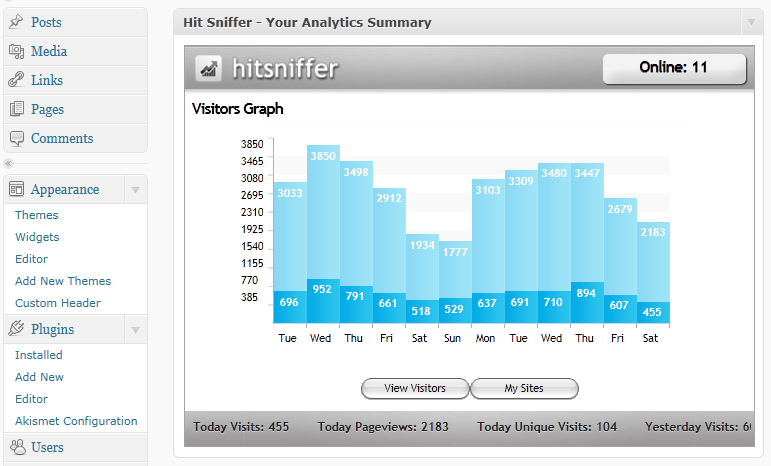
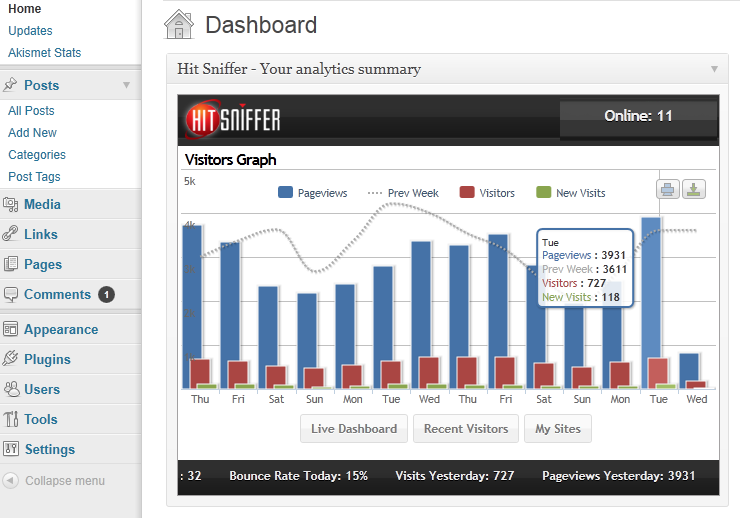
+ New Theme for Dashboard widget + New Screenshot of Dashboard Widget
git-svn-id: https://plugins.svn.wordpress.org/hit-sniffer-blog-stats/trunk@408977 b8457f37-d9ea-0310-8a92-e5e31aec5664

diff --git a/hitsniffer.php b/hitsniffer.php
@@ -4,7 +4,7 @@ Plugin Name: Hit Sniffer Live Blog Analytics
 Plugin URI: http://www.hitsniffer.com/
 Description: Hit Sniffer is a powerful real time website visitor activity tracker. It will monitor your website visitors actions live and in real time.
 Author: hitsniffer.com
-Version: 2.5.2.6
+Version: 2.5.6
 Author URI: http://www.hitsniffer.com/
 */ 
 
@@ -46,7 +46,7 @@ $htssl='';
         $htssl=" - SSL";
       }
   }
-?><!-- HITSNIFFER TRACKING CODE<?php echo $htssl; ?> v2.5.2.3 - DO NOT CHANGE --><?php
+?><!-- HITSNIFFER TRACKING CODE<?php echo $htssl; ?> v2.5.6 - DO NOT CHANGE --><?php
 
 
 
@@ -293,7 +293,7 @@ if (round($option['iga'])==0) $option['iga']=0;
 
 if (round($option['allowchat'])==0) $option['allowchat']=1;
 
-if (round($option['theme'])==0) $option['theme']=2;
+if (round($option['xtheme'])==0) $option['xtheme']=2;
 
 if (round($option['stats'])==0) $option['stats']=2;
 
@@ -328,7 +328,7 @@ $option['wgd']=html_entity_decode($option['wgd']);
 
 $option['allowchat']=html_entity_decode($option['allowchat']);
 
-$option['theme']=html_entity_decode($option['theme']);
+$option['xtheme']=html_entity_decode($option['xtheme']);
 
 $option['stats']=html_entity_decode($option['stats']);
 
@@ -679,13 +679,13 @@ window.location.href="<?php echo str_replace('&hitmagic=do','',$_SERVER['REQUEST
 
 <p><input type="radio" value="1" name="allowchat"  style="width: 22px; height: 20px;" <?php if ($option['allowchat']!=2) echo "checked"; ?> checked>Yes&nbsp;
 
-<input type="radio" value="2" name="allowchat"  style="width: 22px; height: 20px;" <?php if ($option['allowchat']==2) echo "checked"; ?>>No&nbsp;&nbsp;&nbsp;Enable "chat with your visitors feature" (not available on starter plan)
+<input type="radio" value="2" name="allowchat"  style="width: 22px; height: 20px;" <?php if ($option['allowchat']==2) echo "checked"; ?>>No&nbsp;&nbsp;&nbsp;Enable "chat with your visitors feature"
 
 </p>
 
-<p><input type="radio" value="1" name="theme"  style="width: 22px; height: 20px;" <?php if ($option['theme']!=2) echo "checked"; ?> checked>Yes&nbsp;
+<p><input type="radio" value="2" name="xtheme"  style="width: 22px; height: 20px;" <?php if ($option['xtheme']==2) echo "checked"; ?> checked>Yes&nbsp;
 
-<input type="radio" value="2" name="theme"  style="width: 22px; height: 20px;" <?php if ($option['theme']==2) echo "checked"; ?>>No&nbsp;&nbsp;&nbsp;Use the compact theme for wordpress dashboard widget?
+<input type="radio" value="1" name="xtheme"  style="width: 22px; height: 20px;" <?php if ($option['xtheme']!=2) echo "checked"; ?>>No&nbsp;&nbsp;&nbsp;Use the compact Theme for wordpress dashboard widget?
 
 </p>
  
@@ -771,13 +771,13 @@ $htssl=" - SSL";
 		<td>
 
 <?php
-if (round($option['theme'])==2){
+if (round($option['xtheme'])==2){
 ?>
-	<iframe scrollable='no' scrolling="no"  name="hit-sniffer-stat" frameborder="0" style="background-color: #fff; border: 1px solid #A4A2A3;" margin="0" padding="0" marginheight="0" marginwidth="0" width="100%" height="420" src="<?php echo $purl; ?>hitsniffer.com/stats/wp-2.php?code=<?php echo $option['code']; ?>">	
+	<iframe scrollable='no' scrolling="no"  name="hit-sniffer-stat" frameborder="0" style="background-color: #fff; border: 1px solid #A4A2A3;" margin="0" padding="0" marginheight="0" marginwidth="0" width="100%" height="400" src="<?php echo $purl; ?>hitsniffer.com/stats/wp3.2.php?code=<?php echo $option['code']; ?>">	
 <?php 
 }else{
 ?>
-	<iframe scrollable='no' scrolling="no"  name="hit-sniffer-stat-compact" frameborder="0" style="background-color: #fff; border: 1px solid #A4A2A3;" margin="0" padding="0" marginheight="0" marginwidth="0" width="100%" height="400" src="<?php echo $purl; ?>hitsniffer.com/stats/wp3.php?code=<?php echo $option['code']; ?>">	
+	<iframe scrollable='no' scrolling="no"  name="hit-sniffer-stat-compact" frameborder="0" style="background-color: #fff; border: 1px solid #A4A2A3;" margin="0" padding="0" marginheight="0" marginwidth="0" width="100%" height="420" src="<?php echo $purl; ?>hitsniffer.com/stats/wp-2.php?code=<?php echo $option['code']; ?>">	
 <?php } ?>
 
 		<p align="center">
@@ -841,7 +841,7 @@ if ($option['wgd']!=2){
 
     
 
-      wp_add_dashboard_widget('hitsniffer_dashboard_widget', 'Hit Sniffer - Your analytics summary', 'hitsniffer_dashboard_widget_function');	
+      wp_add_dashboard_widget('hitsniffer_dashboard_widget', 'Hit Sniffer - Your Analytics Summary', 'hitsniffer_dashboard_widget_function');	
 
     }
 
@@ -940,7 +940,7 @@ $htssl=" - SSL";
 
                         echo $before_title . $title . $after_title; ?>
 
-<div style="text-align: center;"><!-- HITSNIFFER ONLINE SUPPORT CODE v2.5.2 - DO NOT CHANGE -->
+<div style="text-align: center;"><!-- HITSNIFFER ONLINE SUPPORT CODE v2.5.6 - DO NOT CHANGE -->
 
 <script src="<?php echo $purl; ?>hitsniffer.com/online.php?code=<?php echo $option['code']; ?>" type="text/javascript" ></script>
 
@@ -992,7 +992,7 @@ $htssl=" - SSL";
 
             <p><label for="<?php echo $this->get_field_id('comment'); ?>"><?php _e('Your Comment:'); ?> <input class="widefat" id="<?php echo $this->get_field_id('comment'); ?>" name="<?php echo $this->get_field_name('comment'); ?>" type="text" value="<?php echo $widget_comments_title; ?>" /></label></p>
 
-		<p>What is this widget?</p><span> Sniffer offers a live chat option available from the basic plan upwards. The widget shows an online support icon whenever you are online in your hit sniffer dashboard and shows a leave a message contact form icon when you are not online.</span>
+		<p>What is this widget?</p><span>Hit Sniffer offers a built-in live chat feature. The widget shows an online support icon whenever you are online and shows a leave a message contact form icon when you are not online.</span>
 
       <br><a target="_parent" href="http://www.hitsniffer.com/widget/">Click here to open Hit Sniffer Widgets page.</a>
       <p>With our Firefox addon, you can chat to your visitors direct from a firefox pop up window.
@@ -1029,7 +1029,7 @@ if (round($option['iga'])==0) $option['iga']=2;
 
 if (round($option['allowchat'])==0) $option['allowchat']=1;
 
-if (round($option['theme'])==0) $option['theme']=2;
+if (round($option['xtheme'])==0) $option['xtheme']=2;
 
 if (round($option['stats'])==0) $option['stats']=2;
 
@@ -1091,7 +1091,7 @@ if ($option['stats']!=2){
 
                         echo $before_title . $title . $after_title; ?>
 
-<div class="hitsniffer_statistic_widget"><!-- HITSNIFFER STATISTIC WIDGET v2.5.2 - DO NOT CHANGE -->
+<div class="hitsniffer_statistic_widget"><!-- HITSNIFFER STATISTIC WIDGET v2.5.6 - DO NOT CHANGE -->
 
 <?php if (!$instance['hitsniffer_online']) { ?><div class="hitsniffer_statistics_items hitsniffer_online"><span class="hitsniffer_statistics_values" id="hitsniffer_online">-</span> Online Now</div><?php } ?>
 <?php if (!$instance['hitsniffer_visit']) { ?><div class="hitsniffer_statistics_items">Visits Today: <span class="hitsniffer_statistics_values" id="hitsniffer_visit">-</span></div><?php } ?>
@@ -1293,7 +1293,7 @@ if (round($option['iga'])==0) $option['iga']=2;
 
 if (round($option['allowchat'])==0) $option['allowchat']=1;
 
-if (round($option['theme'])==0) $option['theme']=2;
+if (round($option['xtheme'])==0) $option['xtheme']=2;
 
 if (round($option['stats'])==0) $option['stats']=2;
 
